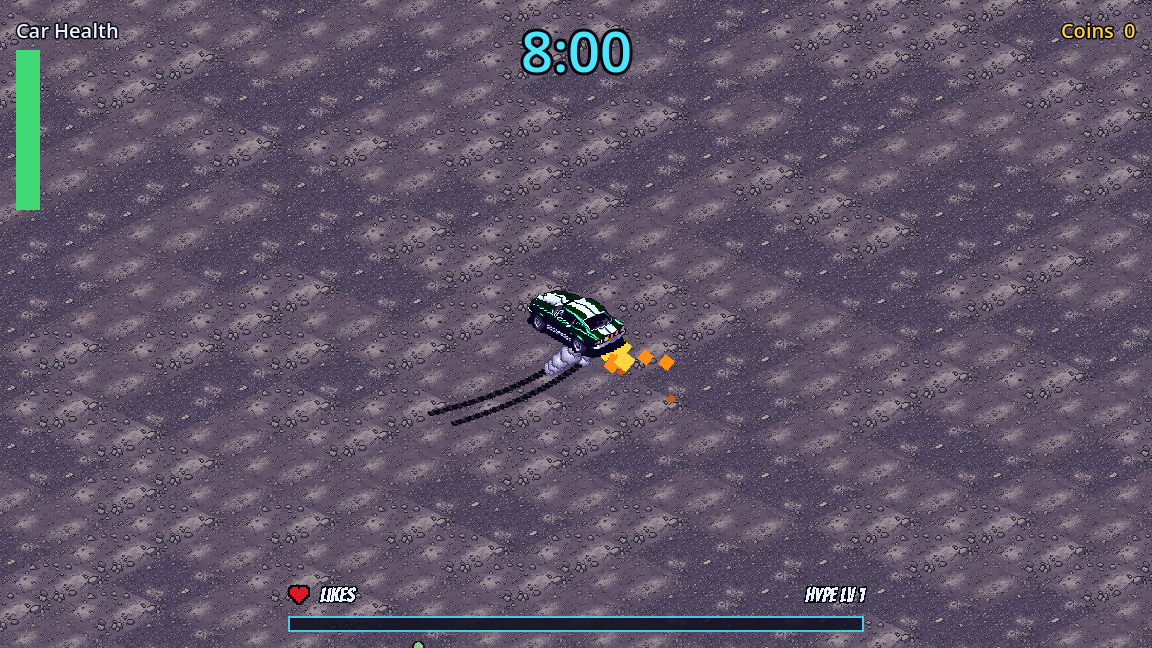
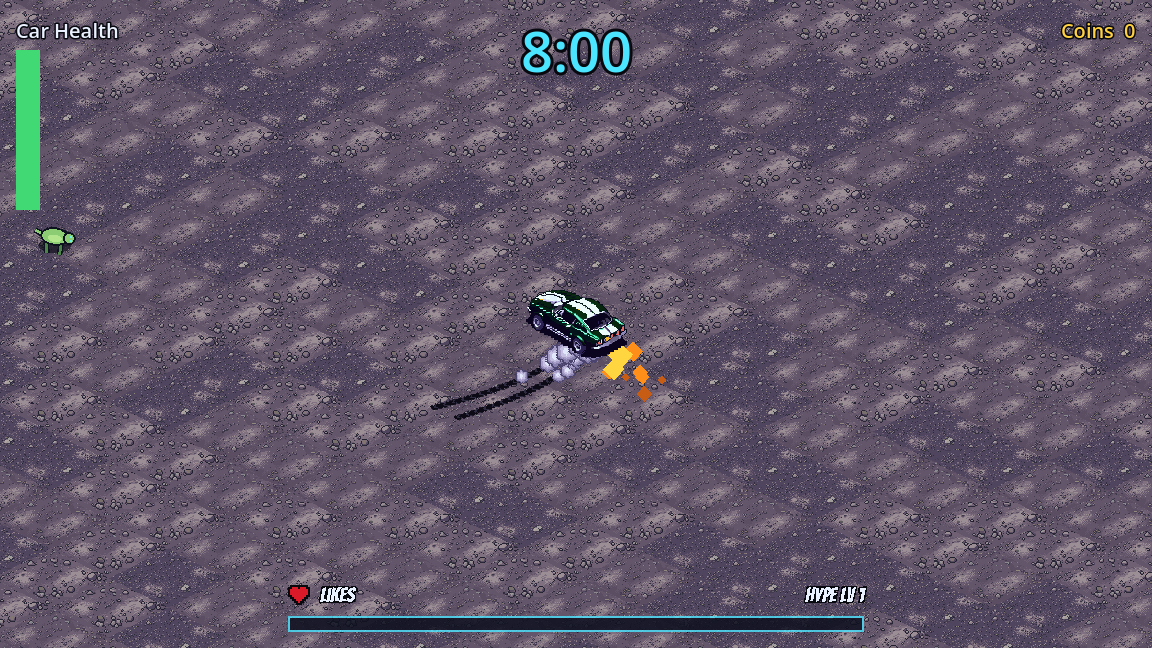
T-042: result notes for the fit, screenshot retaken

diff --git a/tasks/T-042-exhaust-flamethrower.md b/tasks/T-042-exhaust-flamethrower.md
@@ -62,7 +62,7 @@ The board's review: playtest it before it is merged (board, 2026-10-13: nothing 
 - `game/scenes/weapons/flamethrower/exhaust_flame.tscn`: the placeholder flame, a `CPUParticles2D` with the Unity prefab's tuning, stepped orange-yellow colours (no fade, no Redgull red), drawn just under the car in the run's `View`, from 0.42 units behind the car's centre, scaled with the area.
 - Targets: every node in the group `enemies` with `take_damage()` and not `is_dead()`, so the kaiju (T-045) is found as soon as it joins that group. Not `run.minions` alone. No physics bodies, so no collision layer was added.
 
-**How it attaches (for fitting into T-041's plumbing).** It touches `run.gd` in three lines only: a preload (`ExhaustFlamethrowerScript`) and, in `start_run()` after `state.start_run()`, `ExhaustFlamethrowerScript.give_if_playtest_switch(self)`. Nothing in the car was changed. The API:
+**How it attaches (for fitting into T-041's plumbing).** (Superseded by "Fit into T-041's weapon rack" below.) It touches `run.gd` in three lines only: a preload (`ExhaustFlamethrowerScript`) and, in `start_run()` after `state.start_run()`, `ExhaustFlamethrowerScript.give_if_playtest_switch(self)`. Nothing in the car was changed. The API:
 - `ExhaustFlamethrower.attach_to_run(run)`: adds a node named `ExhaustFlamethrower` under the run at tier 1 (or returns the existing one), binds it to `run.car` (it steps on the car's `stepped` signal, so it stops while paused), puts its drawing under `run.view_root` just before `run.car_sprite`, and listens to `run.world_rebuilt`.
 - `ExhaustFlamethrower.find_on(run)`, `ExhaustFlamethrower.detach_from(run)` / `flame.detach()`, `flame.set_tier(t)`, `flame.upgrade()` (false at tier 8), `flame.is_max_tier()`, signal `enemy_hit(enemy, amount)`.
 - A new run (`run.world_rebuilt`) detaches it, so every run starts without it (and the new car has its normal turn speed).
@@ -97,3 +97,30 @@ Results: full GUT suite (`bash game/tools/run_tests.sh`) 601/601 passed, TESTS P
 - Note for the Project Lead (not a failure): GUT lists `ExhaustFlamethrower` nodes and `ExhaustFlame` drawings among its orphan reports: in the flamethrower's own test file whatever the switch says, and with the switch on also in the other run tests (state, timer, level-up, second run), next to the map and car orphans those tests already report. Tests still pass; worth tidying when the weapon plumbing (T-041/T-043) takes over attaching.
 - 2026-10-14, in-qa → needs-playtest: QA round 1: all 7 criteria pass
 - 2026-10-14, needs-playtest → in-progress: Board asked to merge it (2026-10-14); first fitted into T-041's weapon plumbing, now on master
+
+**Fit into T-041's weapon rack (Weapon Behavior Agent, 2026-10-14, after the board asked to merge).**
+- **Merged master** (T-041's weapon rack) into the branch and resolved the conflicts in `run.gd`, `game/README.md`, `docs/weapons.md` and my agent notes. A second merge of master brought in the board's new Decisions line on the smoke and the kaiju, unchanged. The task file kept the branch's version, including a `lead: Enemies` header line that was set on the task board and that I did not write.
+- **How it plugs in now:**
+  - `game/scripts/weapons/flamethrower/exhaust_flamethrower.gd` extends `weapon.gd`, with `weapon_id` `flamethrower` and `starts_owned` false. It is listed in `weapons.gd`'s `WEAPON_SCRIPTS`, and `run.weapons.flamethrower` is a getter next to `run.weapons.gun`.
+  - The rack owns it, steps it while it is owned, and resets it at every new run to tier 0 (not owned).
+  - `run.weapons.upgrade("flamethrower")` gives it and applies each tier. This is the call T-043 will use.
+  - `run.gd` is now identical to master's: my preload, `give_if_playtest_switch` and the separate attach, find and detach path are gone.
+  - The drawing (`ExhaustFlame`, the same scene) is made the first time the flamethrower is owned and stays in the run's View. It emits only while the flame is on.
+- **Playtest switch:** still `game/data/playtest.json`, `flamethrower_at_start`, on in this branch. The file is a dictionary of independent keys. It is applied through the rack:
+  - **Where it is read:** `playtest_switch_on()` in `exhaust_flamethrower.gd`, called once per run from `weapons.gd` `reset_for_run()`, which then calls `upgrade("flamethrower")`.
+  - **When T-045 merges:** whichever branch merges second routes this one read through T-045's `game/scripts/run/dev_settings.gd`, and lets its GUT pre-run hook switch the key off. `playtest_override` stays for my own tests. I did not edit `.gutconfig.json`.
+  - `test_starting_gun.gd` sets `playtest_override = 0` (two lines), so the gun's "only the gun at the start" tests check the game's rule.
+- **Orphans:** the `ExhaustFlamethrower` and `ExhaustFlame` orphans are gone: both nodes now live for the whole run scene and are freed with it. The two tests that call `run.start_run()` wait one frame afterwards, so the old map and car are freed and show no orphans either. The flamethrower test file now reports no orphans.
+- **Board answers (2026-10-14):**
+  - The drift smoke stays on with the flames. Nothing was changed for this.
+  - The kaiju and the flames:
+    - **Rule:** an enemy that reports its body size with `hit_radius_units()` (the kaiju, T-045) is inside when its body, a circle of that radius, overlaps the flame's rectangle at all (`overlaps_circle()`). Any other enemy, including the minions, is inside only when its centre is.
+    - **Test:** `test_big_enemy_is_burnt_when_its_body_overlaps_the_flames`. A stand-in enemy (`game/tests/fixtures/weapons/fake_big_enemy.gd`, radius 3) has its centre 2 units past the flame's far edge and is burnt: the entering hit, then the ticks. An enemy without a size at nearly the same spot is not burnt, and a big one whose body stops 1 unit short of the flames is not burnt.
+  - Both answers are described in `docs/weapons.md` Content and in `game/README.md`.
+- **Unchanged:** behaviour, numbers and placeholder look are exactly as the board played them. The only change is the new overlap rule for enemies that report a size, which no current enemy does.
+- **Tests:**
+  - `test_exhaust_flamethrower.gd`: 23 tests, rewritten for the rack (driving steps the car, then `rack.step()`), with new tests for the rack (`test_it_is_one_of_the_racks_weapons`) and the big enemy. The gun is set to tier 0 in these tests so its bullets do not hit the test enemies.
+  - Full GUT suite: 626 of 626 pass (57 scripts, TESTS PASSED, exit 0).
+  - Python tool tests: `game/tools` 241 OK (1 skipped); `tools` 171 OK.
+- **Screenshot:** retaken after the fit with the same fixture, which now gives the flamethrower through `run.weapons`. It looks the same: `art-archive/T-042/screenshots/flamethrower.png`.
+- **Docs:** `docs/weapons.md`, Content, "The exhaust flamethrower (built in task T-042)", now under T-041's "The starting gun" section. Summary, Decisions and Open questions were not changed by me. `game/README.md`, "Weapons", "The exhaust flamethrower".
